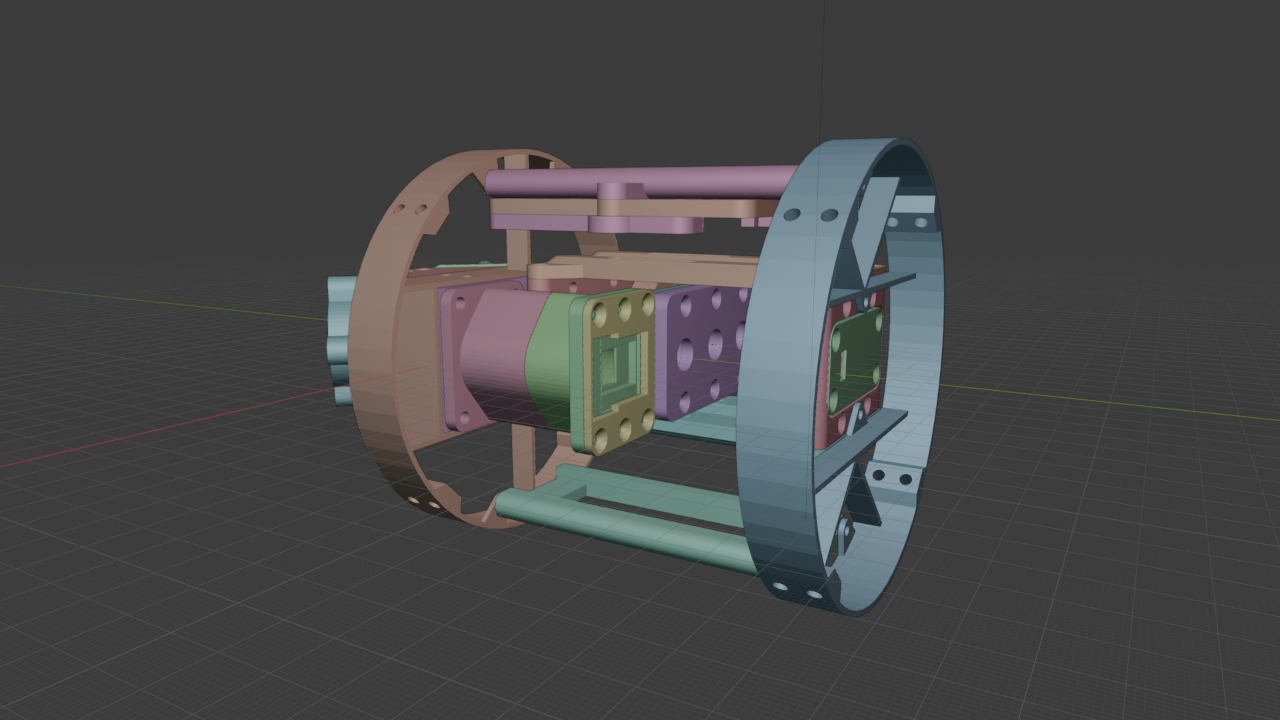
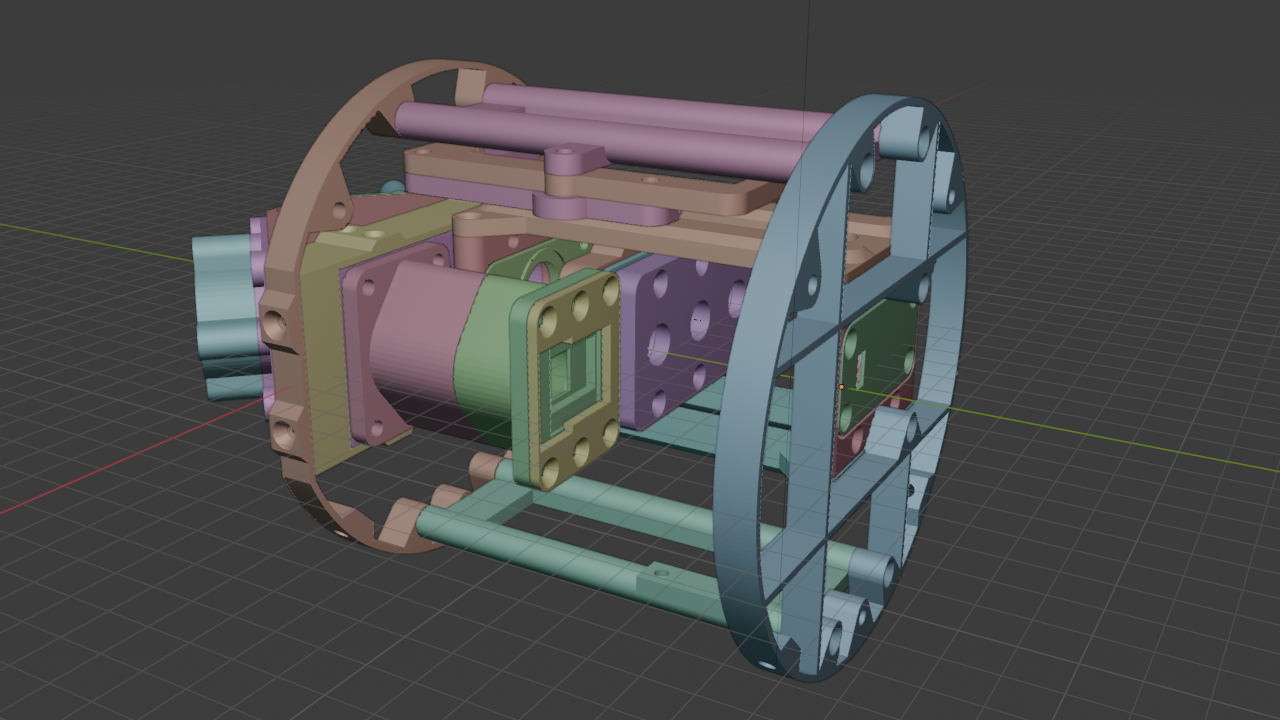
Updating images on README

diff --git a/README.md b/README.md
@@ -4,6 +4,12 @@
 
 The PIPE is an almost fully 3D-printable pumped fluid microscope targeting particles in the range of 10-500 micron. As designed, it requires ***zero*** specialist components, with everything being either 3D-printable, readily avalaible to purchase on sites like eBay, or quickly made with a hacksaw and drill.
 
+![Early prototype of the PIPE](./printed_prototype.jpg)
+Early prototype of the PIPE
+
+![Example side-by-side comparison of the resolution of the PIPE vs the IFCB](./printed_prototype.jpg)
+Side-by-side comparison of the resolution of a PIPE prototype vs the IFCB
+
 ## Licence and acknowledgements
 
 This project would not have been possible without the work of the team at FairScope, creators of the [PlanktoScope](https://github.com/fairscope/PlanktoScope). The PIPE is heavily inspired by the PlanktoScope, and borrows some pieces of its design. All physical designs for the PIPE are therefore also CERN OHL-S V2 licensed, and you are free to adapt and re-use the designs in accordance with the licence.
